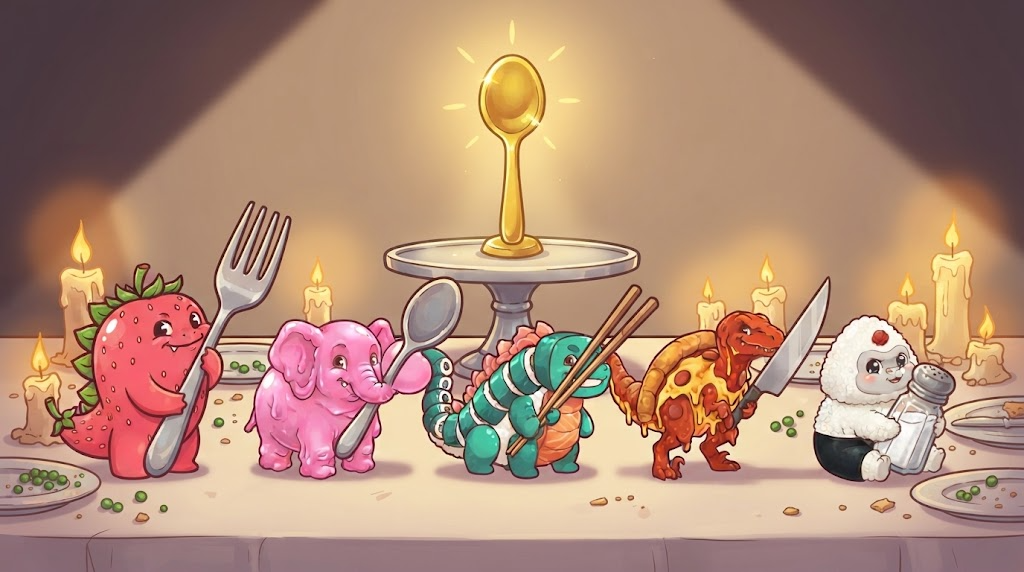
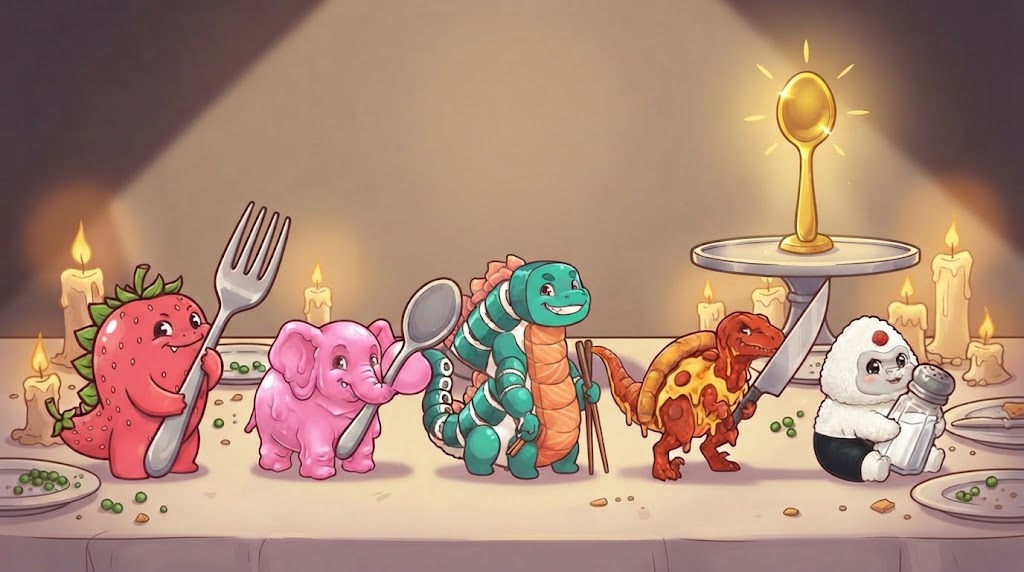
Cover: golden spoon moved right clear of the title, Norigon's face unblocked; title back to full size

diff --git a/src/scenes/TitleScene.ts b/src/scenes/TitleScene.ts
@@ -30,10 +30,10 @@ export class TitleScene extends Phaser.Scene {
     for (let i = 0; i < 12; i++) { g.fillStyle(0x0d0805, 0.06 * i); g.fillRect(0, 520 + i * 17, 1280, 17); }
     g.fillStyle(0x0d0805, 0.35); g.fillRect(0, 0, 1280, 8);
 
-    const title = this.add.text(360, 76, 'KITCHEN KAIJU', display(86, '#ffe9c7', { strokeThickness: 14, padding: { x: 8, y: 8 } })).setOrigin(0.5).setDepth(2);
+    const title = this.add.text(372, 76, 'KITCHEN KAIJU', display(94, '#ffe9c7', { strokeThickness: 14, padding: { x: 8, y: 8 } })).setOrigin(0.5).setDepth(2);
     withShadow(withGradient(title, '#fff6cf', '#ffb347'), 8);
     popIn(this, title, 1.3, 700);
-    withShadow(this.add.text(360, 146, 'Tiny monsters. Giant dinner.', body(24, '#ffd9a0', 900)).setOrigin(0.5).setDepth(2), 3);
+    withShadow(this.add.text(372, 150, 'Tiny monsters. Giant dinner.', body(24, '#ffd9a0', 900)).setOrigin(0.5).setDepth(2), 3);
 
     const save = loadStory();
     const storySub = save.stars.some(s => s) ? `Chapter ${Math.min(save.unlocked, CHAPTERS.length)}/${CHAPTERS.length} · ★ ${totalStars(save)}/${CHAPTERS.length * 3}` : 'Solo campaign · 12 chapters';
